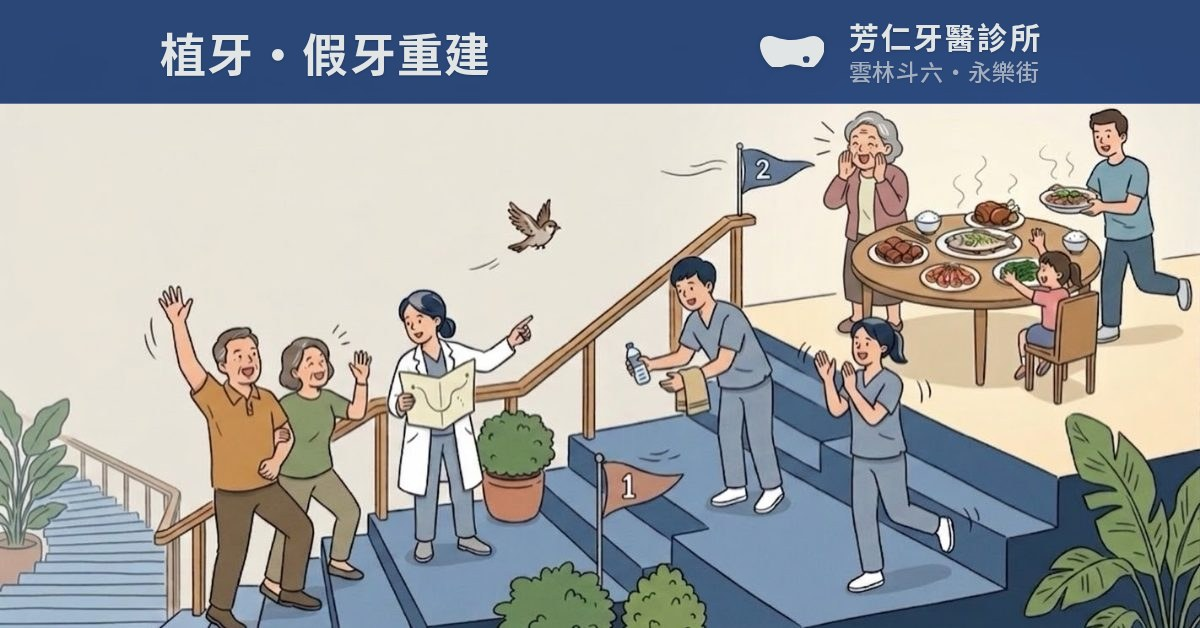
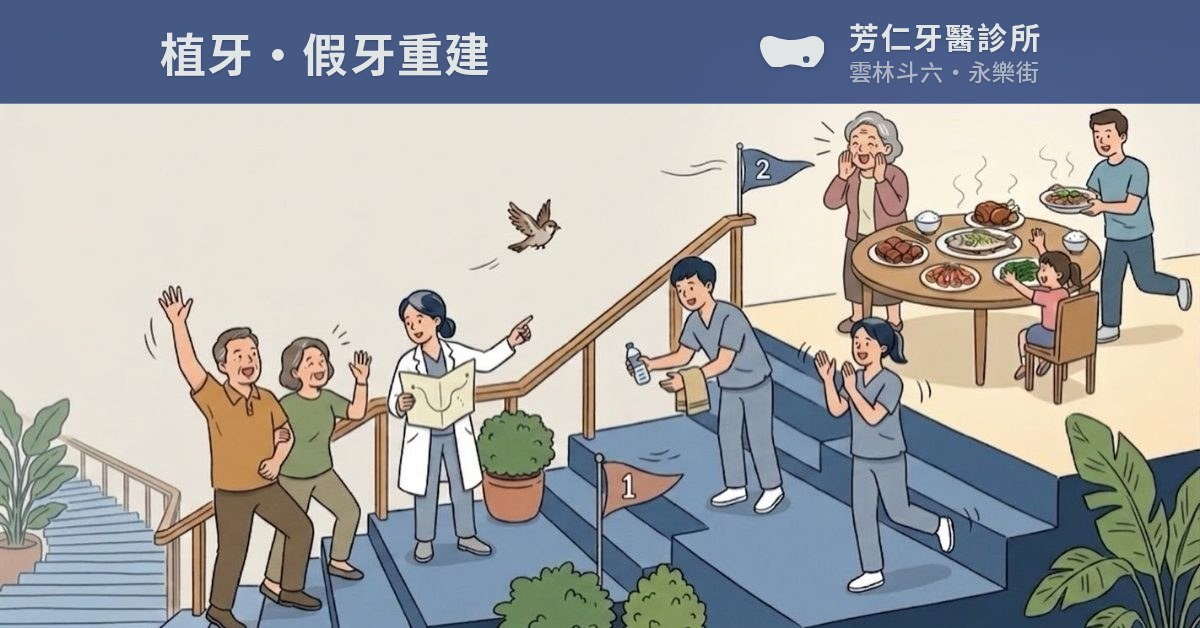
植牙分享圖：帶子改落在新的套色 #465885（＝站上那顆標籤）
使用者：「感覺和標籤現在的選色還是不太一樣」。他是對的 —— 科別色 8 月底換過
（0a674dc／fb4e4be），現在是 --accent: #465885 / --accent-deep: #2a4677，
而帶子當時跟著換成新的深階。這一輪改成落在套色上。

補償色 #536db5（牆是 og-shift 填出來的 rgb(233,229,217)，重算過），
帶子實測 #465984~#495b89，對標籤 ΔE 0.9；紙色字 5.54（門檻 4.5）。

⚠⚠ 這一輪最貴的一課不在顏色：我第一次比對拿的是落後 main 一百多個 commit
的分支，讀到舊的 #335b8b，還回頭跟使用者說「站上的色沒有換過」。
CLAUDE.md 第二節第一條「開工前一定要先同步」整個踩上去。
⚠ 第二條：「和標籤不一樣」要分成底色和字兩件事量 —— 標籤是純白字，
帶子預設是紙色 #e2e5e6，同一塊藍上面紙色字會鈍一階。

推導寫進 drafts/og-topic-prosth-prompt.md 第七節與 /history/prosth-band.html。

Claude-Session: https://claude.ai/code/session_017dbcdSgFYGvse4pLmMQmpf

Changed region(s): [[0.0, 0.0, 1.0, 0.1815]]

diff --git a/history/prosth-band.html b/history/prosth-band.html
@@ -62,5 +62,21 @@ node tools/og-plate.mjs prosth --blend multiply --tintcolor '#163561' \
 「整理好，吃得順、用得久；部定專科醫師做過全口評估，幫你安排治療計畫。」
 34 字，實測在卡片上剛好兩行、不截斷。破折號改成全形分號（同矯正那張）。</li>
 </ul>
+
+<h2>⚠ 2026-09-02 換色之後重做：帶子改落在新的套色上</h2>
+<p>科別色在 8 月底換過（<code>--accent: #465885</code>／<code>--accent-deep: #2a4677</code>），
+帶子當時跟著換成新的<b>深階</b>。使用者：「感覺和標籤現在的選色還是不太一樣」，
+所以改成落在<b>套色</b>上：補償色 <code>#536db5</code>，帶子實測 <code>#465984</code>
+（對標籤 ΔE 0.9，肉眼分不出），紙色字 5.54，過站上 4.5 的門檻。</p>
+<pre>node drafts/og-shift.mjs drafts/og-topic-prosth-src.jpg prosth --shift 45
+node tools/og-plate.mjs prosth --blend multiply --tintcolor '#536db5' \
+  --ink 0.18 --blur 6 --loc full --locpos stack</pre>
+<p>⚠⚠ 這一輪最貴的一課不在顏色：<b>我拿一條落後 main 一百多個 commit 的分支去比對</b>，
+讀到的是舊的 <code>#335b8b</code>，還回頭跟使用者說「站上的色沒有換過」。
+<b>動任何跟色票有關的事，第一件事是同步。</b></p>
+<p>⚠ 第二條：<b>「和標籤不一樣」要分成底色和字兩件事量</b> ——
+標籤是純白字，帶子預設是紙色 <code>#e2e5e6</code>，同一塊藍上面紙色字會鈍一階。
+這一輪使用者最後仍然選紙色字。</p>
+
 </body>
 </html>

diff --git a/drafts/og-topic-prosth-prompt.md b/drafts/og-topic-prosth-prompt.md
@@ -3014,3 +3014,38 @@ rendering; heavy even black outlines.
 | 底部裁掉 | 77px | **52px** |
 | 紙色字對帶子 | 5.54 / 5.50 | **5.54 / 5.42** ✅ |
 | 帶子以下的邊緣密度 | 28.3% | **29.9%**（門檻 30，差 0.1） |
+
+
+---
+
+## 七、2026-09-02：科別色換過之後，帶子跟著換到新的套色
+
+使用者：「感覺和標籤現在的選色還是不太一樣」。站上的色 2026-08-26 前後換過
+（`0a674dc` 植牙・假牙重建定案上線 Ⓒ、`fb4e4be` 重點字 Ⓓ3）：
+
+    [data-spec="prosth"] { --accent: #465885; --accent-deep: #2a4677; }
+
+⚠⚠ **我第一次比對是錯的** —— 那條工作分支落後 `main` 一百多個 commit，
+拿到的是**舊的** `#335b8b`，還跟使用者說「站上的色沒有換過」。
+**CLAUDE.md 第二節第一條「開工前一定要先同步」，這一輪整個踩上去。**
+下次動任何跟站上色票有關的事，第一件事是 `node tools/sync.mjs`，
+第二件事是 `grep 'data-spec="<spec>"' index.html` 現場讀一次。
+
+⚠⚠ 另一條會再用到的：**「和標籤不一樣」要分成「底色」和「字」兩件事量。**
+標籤是**純白**字，分享卡的帶子預設是**紙色** `#e2e5e6`。同一塊藍上面，
+紙色字帶灰綠、整條會鈍一階 —— 底色明明已經對上了，看起來仍然不一樣。
+（這一輪使用者最後選的是紙色字那一版，白字版落選。）
+
+**新的參數**（牆仍然是 `og-shift` 填出來的 rgb(233,229,217)，所以補償色重算）：
+
+    node drafts/og-shift.mjs drafts/og-topic-prosth-src.jpg prosth --shift 45
+    node tools/og-plate.mjs prosth --blend multiply --tintcolor '#536db5' \
+      --ink 0.18 --blur 6 --loc full --locpos stack
+
+| | 值 |
+| --- | --- |
+| 目標（站上的套色） | `#465885` |
+| 補償色 `M` | `#536db5`（＝ ((套色 − .18×墨) ÷ .82) × 255 ÷ 牆） |
+| 帶子實測（十段橫掃） | `#465984`～`#495b89` —— **ΔE 0.9，肉眼分不出** |
+| 紙色字對帶子 | **5.54**（門檻 4.5 ✅） |
+| 對矯正套色 `#4478b5` 的 ΔE | 16.0（換色之前那一版深階是 21.0） |
